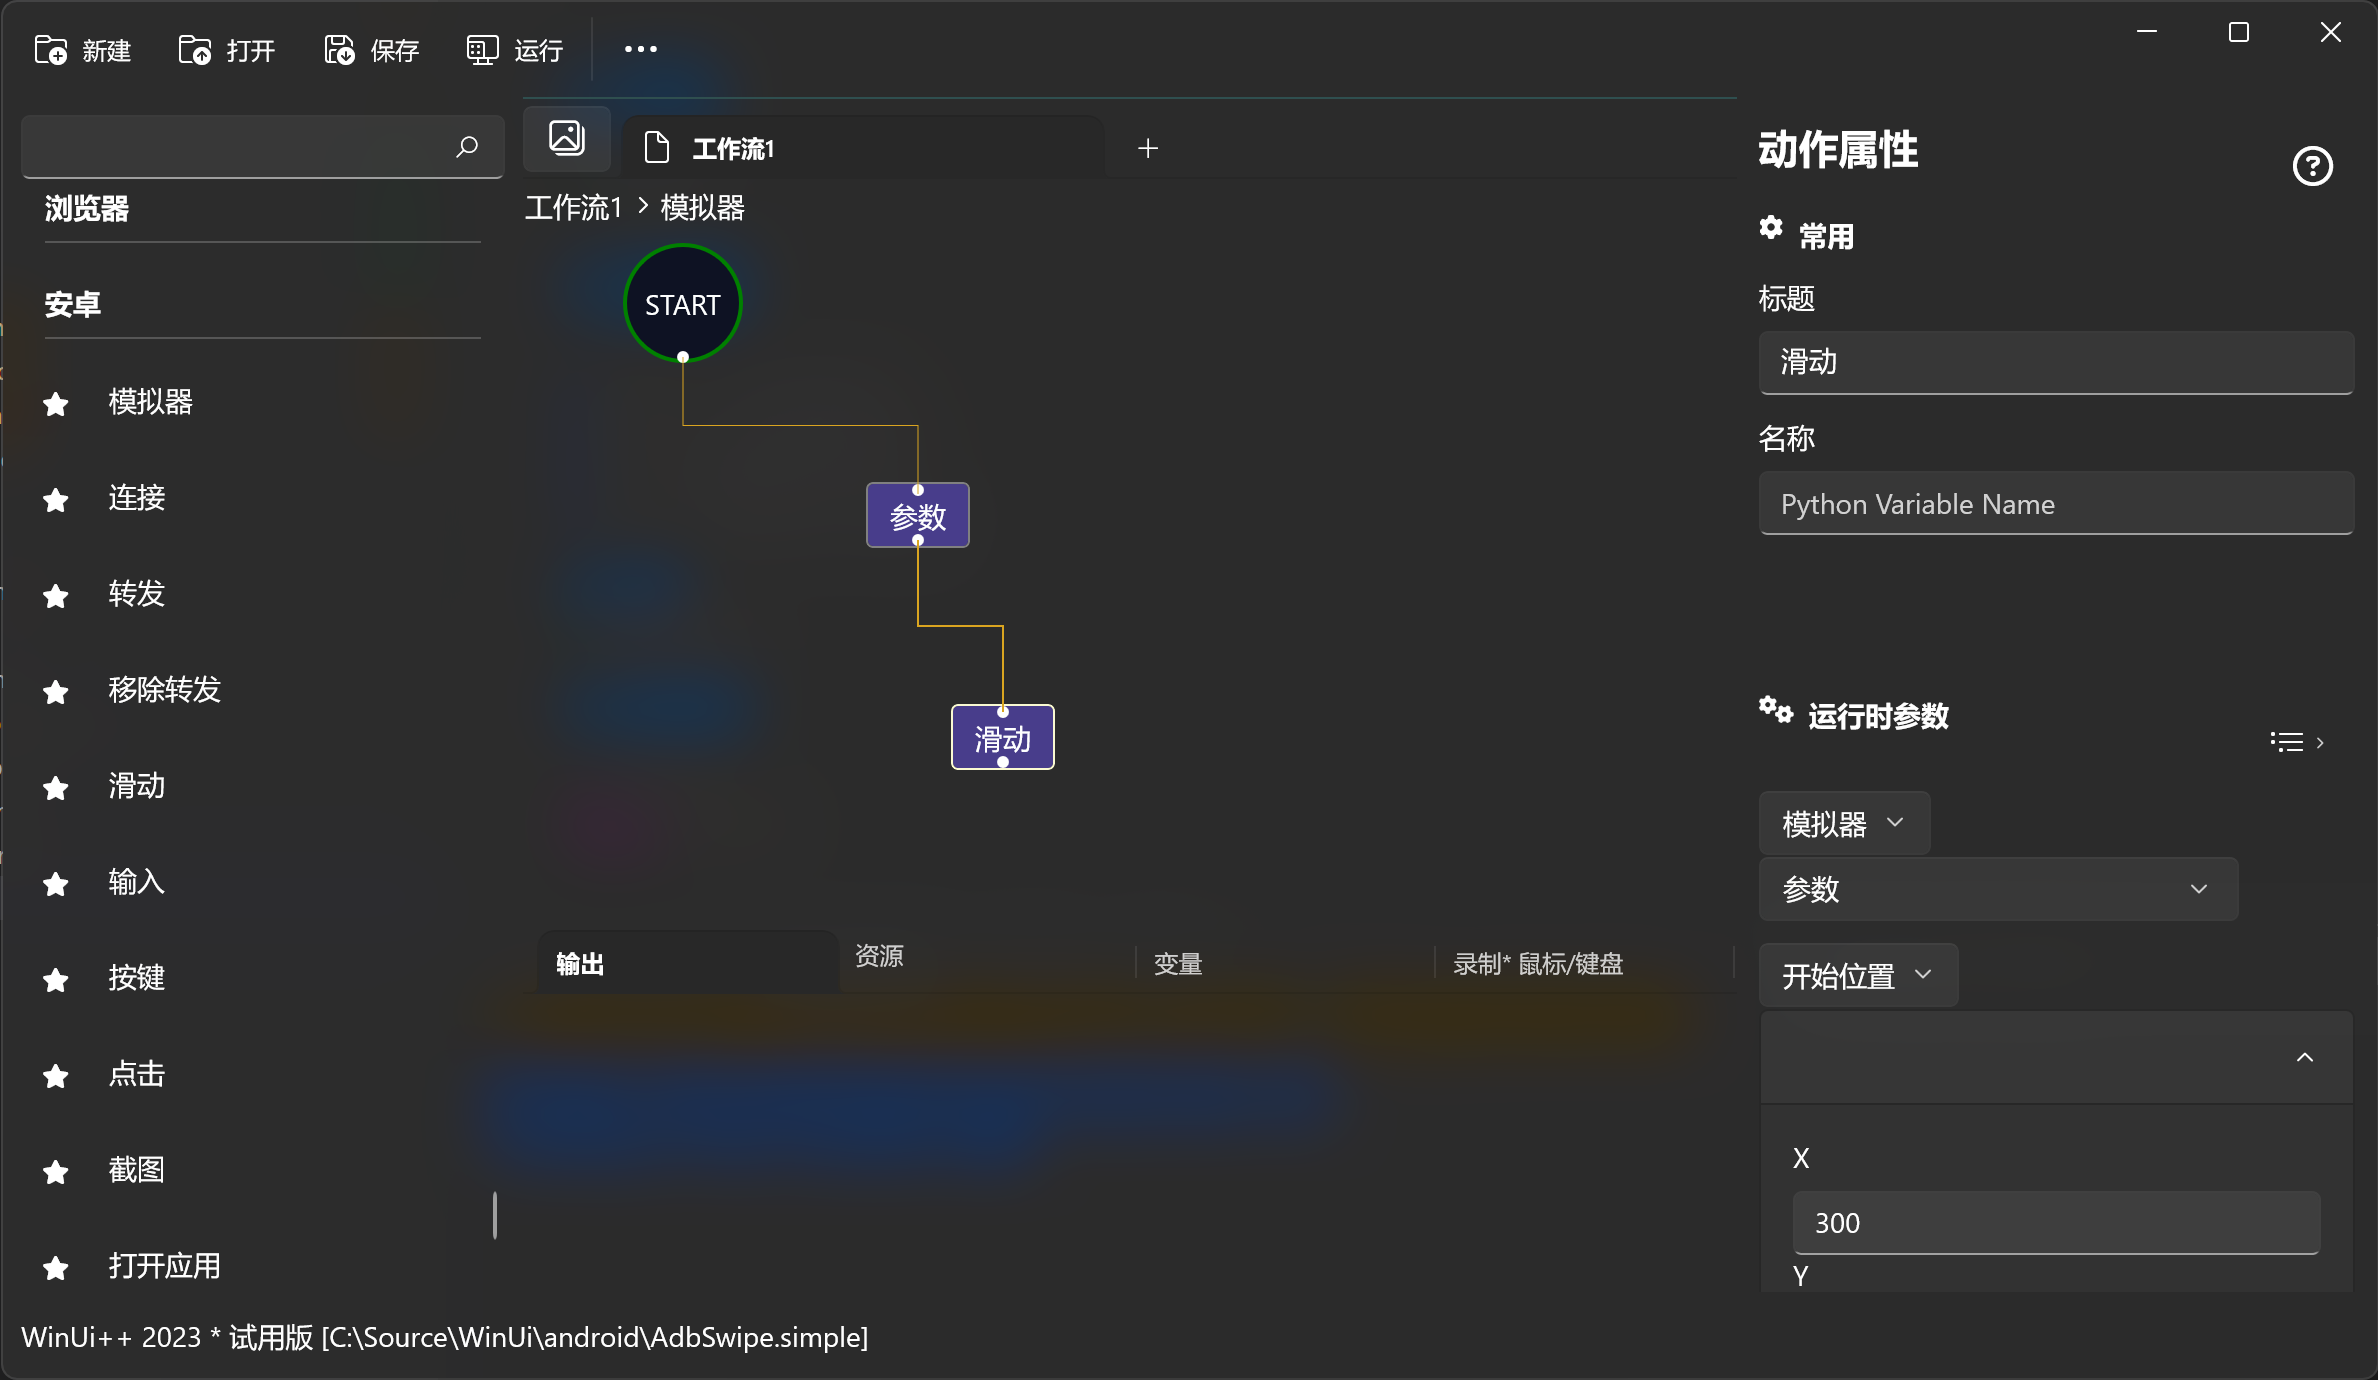
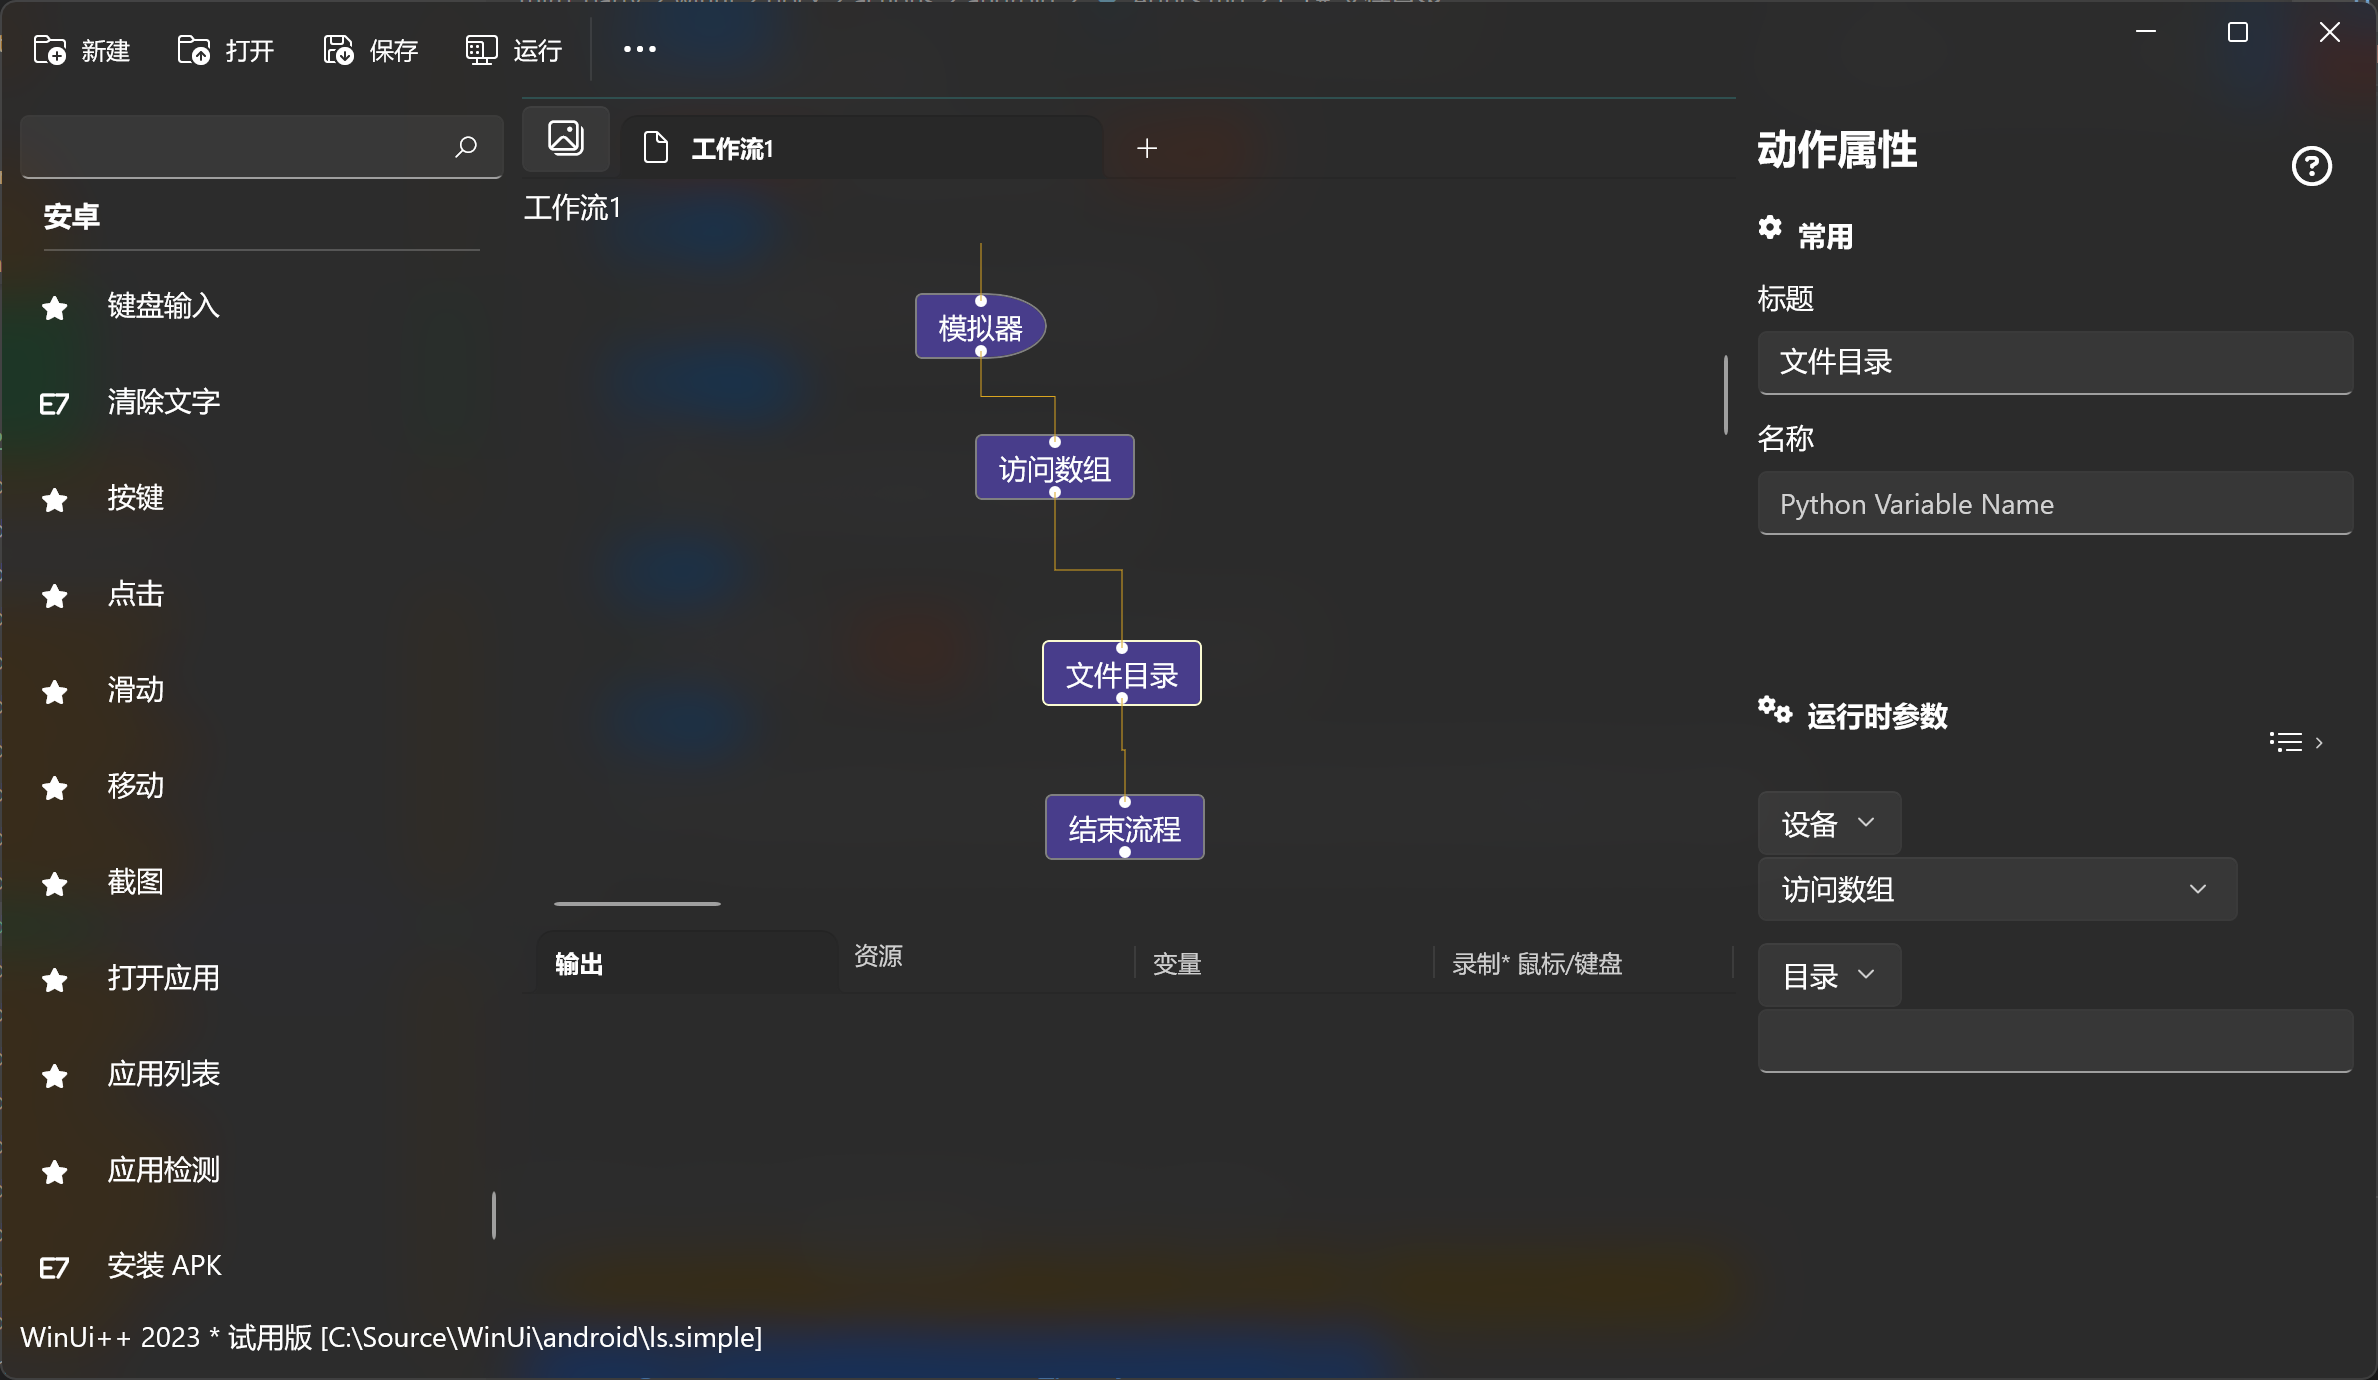
update for 0.33

diff --git a/docx/_sidebar.md b/docx/_sidebar.md
@@ -231,14 +231,19 @@
       - [端口转发](./actions/android/AdbForward.md)
       - [滑动](./actions/android/AdbSwipe.md)
       - [输入](./actions/android/AdbInput.md)
+      - [键盘输入 * 英文](./actions/android/Adbkeyboard.md)
+      - [清除文字](./actions/android/AdbClearText.md)
       - [按键](./actions/android/AdbKey.md)
       - [点击](./actions/android/AdbTap.md)
       - [截图](./actions/android/AdbScreenCap.md)
       - [打开应用](./actions/android/AdbStartApp.md)
       - [安装包](./actions/android/AdbPackages.md)
+      - [应用检测](./actions/android/AdbIsInstalled.md)
+      - [安装应用](./actions/android/AdbInstall.md)
       - [移动](./actions/android/AdbMove.md)
       - [推送文件](./actions/android/AdbPush.md)
       - [拉取文件](./actions/android/AdbPull.md)
+      - [文件目录](./actions/android/AdbLs.md)
       - [启动服务](./actions/android/AdbStartServer.md)
       - [终止服务](./actions/android/AdbKillServer.md) 
   - 内置类型

diff --git a/docx/actions/android/AdbIsInstalled.md b/docx/actions/android/AdbIsInstalled.md
@@ -1,7 +1,7 @@
-# 终止服务 
+# 应用检测 
 检查安卓设备中是否已经安装了某个安装包。
 
-![AdbIsInstalled](./images/03.png ':size=90%')
+![AdbIsInstalled](./images/21.png ':size=90%')
 
 
 ## 子流程
@@ -11,13 +11,15 @@
 ## 运行参数
 
 * 设备
+> 设备号，如果当前连接的只有一个设备，该值可为空。
 
-* 包名称
-> 
+* 安装包
+> 安装应用包名称。
+
 
 ## 输出
 
-> 设备日志，字符串[`String`](./types/String.md)。
+> 是否已经安装，布尔值。可以参考：[Boolean](./types/Boolean.md)。
     
 
 ## 资源

diff --git a/docx/actions/android/AdbLs.md b/docx/actions/android/AdbLs.md
@@ -1,0 +1,25 @@
+# 文件目录 
+获取文件或者文件夹列表。
+
+![AdbLs](./images/04.png ':size=90%')
+
+## 子流程
+
+> 支持，模拟器的设备号会传入子动作当中。
+
+## 运行参数
+
+* 设备
+> 设备号，如果当前连接的只有一个设备，该值可为空。
+
+* 目录
+> 根目录， 可为空，表示 *sd* 卡的根目录。
+
+## 输出 
+
+>  目录列表，参考： [`Paths`](./types/Path.md)。
+
+## 资源
+
+示例：https://github.com/shelllet/WinUi/blob/main/android/ls.simple
+

diff --git a/docx/actions/android/AdbForward.md b/docx/actions/android/AdbForward.md
@@ -1,5 +1,5 @@
 # 端口转发 
-把安卓系统的端口映射到本地端口，通过此种方式可以调用模拟器中的接口或者服务。
+把安卓系统的服务端口映射到本地端口，通过此种方式可以调用模拟器中的接口或者服务。
 
 ![AdbForward](./images/03.png ':size=90%')
 
@@ -15,7 +15,7 @@
 
 * 本地端口
 >
-* 模拟器端口
+* 服务端口
 >
 
 ## 输出

diff --git a/docx/actions/android/AdbKey.md b/docx/actions/android/AdbKey.md
@@ -2,7 +2,7 @@
 在安卓模拟器中模拟按键。
 
 
-![AdbKey](./images/2022-11-15_193233.png ':size=90%')
+![AdbKey](./images/07.png ':size=90%')
 
 
 ## 子流程
@@ -13,9 +13,9 @@
 
 
 * 设备
-> 设备号
+> 设备号，如果当前连接的只有一个设备，该值可为空。
 * 按键
-> 
+> 仅支持列表中的按键。
 * 按键时间
 > 单位 *秒*
 

diff --git a/docx/actions/android/AdbStartApp.md b/docx/actions/android/AdbStartApp.md
@@ -1,6 +1,8 @@
 # 打开应用 
 打开安卓设备上已经安装的 *App*。
 
+![AdbStartApp](./images/10.png ':size=90%')
+
 ## 子流程
 
 > 不支持
@@ -13,7 +15,8 @@
 * 安装包
 > 已经安装的 *App* 包名。点击红色指示的按钮,可以打安装包选择窗口。如下图：
 
-  
+  ![AdbStartApp](./images/11.png ':size=90%')
+
 
 ## 输出
 

diff --git a/docx/actions/android/AdbTap.md b/docx/actions/android/AdbTap.md
@@ -1,6 +1,7 @@
 # 点击 
 在安卓设备中模拟点击。
 
+![AdbTap](./images/08.png ':size=90%')
 
 ## 子流程
 
@@ -12,7 +13,7 @@
 > 设备号，如果当前连接的只有一个设备，该值可为空。
 
 * 位置
-> 点击位置。
+> 点击位置。设备中的屏幕坐标。
 
 ## 输出 
 > 设备日志，字符串[`String`](./types/String.md)。

diff --git a/docx/actions/android/Adbkeyboard.md b/docx/actions/android/Adbkeyboard.md
@@ -2,7 +2,7 @@
 在安卓模拟器中模拟文本输入。此动作支持中文输入，输入中文字符之前，安装 *ADBKeyboard.apk*。关于*ADBKeyboard.apk*，请参考：https://github.com/senzhk/ADBKeyBoard 。
 
 
-![AdbInput](./images/05.png ':size=90%')
+![Adbkeyboard](./images/06.png ':size=90%')
 
 ## 子流程
 

diff --git a/docx/actions/android/AdbClearText.md b/docx/actions/android/AdbClearText.md
@@ -1,6 +1,8 @@
 # 清除文字 
 清输处理焦点的输入框中的文本，清除文本之前，自动安装 *ADBKeyboard.apk*。关于*ADBKeyboard.apk*，请参考：https://github.com/senzhk/ADBKeyBoard 。
 
+![AdbClearText](./images/18.png ':size=90%')
+
 ## 子流程
 > 不支持
 

diff --git a/docx/actions/android/AdbKillServer.md b/docx/actions/android/AdbKillServer.md
@@ -1,13 +1,13 @@
 # 终止服务 
 终止 *adb* 服务进程。通常用在操作结束或者配合[启动服务](./AdbStartServer.md)一起使用。
 
+![AdbKillServer](./images/17.png ':size=90%')
+
 ## 子流程
 > 不支持
 
 
 ## 运行参数
-
-
 
 
 ## 输出

diff --git a/docx/actions/android/AdbInput.md b/docx/actions/android/AdbInput.md
@@ -1,4 +1,4 @@
-# 输入 
+# 键盘输入 
 在安卓模拟器中模拟文本输入。此动作不支持中文输入，如果需要输入中文请使用动作 [键盘输入](./Adbkeyboard.md)。
 
 
